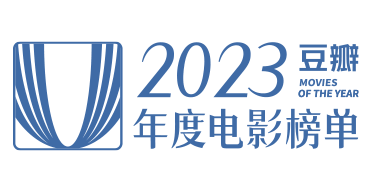
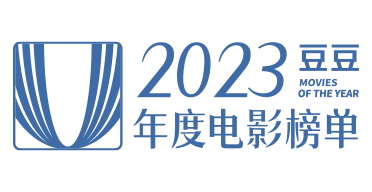
movie-web

Changed region(s): [[0.8871, 0.2188, 0.9758, 0.375]]

diff --git a/src/views/Home/IndexView.vue b/src/views/Home/IndexView.vue
@@ -16,7 +16,7 @@
             <el-row :gutter="10" >
              <el-col :span="6" v-for="item in p">
                <el-card align="center" style="padding:0;">
-                 <img :src="item.imgUrl" style="width: 130px;height: 180px">
+                 <img :src="item.imgUrl" style="height: 180px">
                  <p style="font-size:15px;margin: 3px auto;text-align: center;">{{item.title}}</p>
                  <p style="font-size:13px;margin: 3px auto;text-align: center;" :style="item.style">{{item.score}}</p>
                  <el-button type="primary" size="small"> 选座购票</el-button>
@@ -120,18 +120,51 @@
       <!--首页右侧部分-->
       <el-col :span="6">
         <el-menu>
-          <p>一周口碑榜</p>
-          <el-menu-item index="1">首尔之春</el-menu-item>
-          <el-menu-item index="2">机器人之梦</el-menu-item>
-          <el-menu-item index="3">梦之歌</el-menu-item>
-          <el-menu-item index="4">女气</el-menu-item>
-          <el-menu-item index="5">流行乐最传奇一夜</el-menu-item>
-          <el-menu-item index="6">农民</el-menu-item>
-          <el-menu-item index="7">如何拯救一名死去的朋友</el-menu-item>
-          <el-menu-item index="8">都是陌生人</el-menu-item>
-          <el-menu-item index="9">目中无人2</el-menu-item>
-          <el-menu-item index="10">动物王国</el-menu-item>
+          <p style="font-size: 20px; line-height: 50px;margin:0px;">一周口碑榜</p>
+          <el-menu-item index="1" style="height: 36px;">1.首尔之春</el-menu-item>
+          <el-menu-item index="2" style="height: 36px;">2.机器人之梦</el-menu-item>
+          <el-menu-item index="3" style="height: 36px;">3.梦之歌</el-menu-item>
+          <el-menu-item index="4" style="height: 36px;">4.女气</el-menu-item>
+          <el-menu-item index="5" style="height: 36px;">5.流行乐最传奇一夜</el-menu-item>
+          <el-menu-item index="6" style="height: 36px;">6.农民</el-menu-item>
+          <el-menu-item index="7" style="height: 36px;">7.如何拯救一名死去的朋友</el-menu-item>
+          <el-menu-item index="8" style="height: 36px;">8.都是陌生人</el-menu-item>
+          <el-menu-item index="9" style="height: 36px;">9.目中无人2</el-menu-item>
+          <el-menu-item index="10" style="height: 36px;">10.动物王国</el-menu-item>
         </el-menu>
+
+        <el-menu>
+          <p style="font-size: 20px; line-height: 50px;margin-top:60px;">热门片单</p>
+          <el-menu-item index="1" style="height: 50px;">现代战争篇</el-menu-item>
+          <el-menu-item index="2" style="height: 50px;">入选IMDB250和豆瓣电影250的电影</el-menu-item>
+        </el-menu>
+
+
+        <p style="font-size: 20px; line-height: 50px;margin-top:60px;">合作联系</p>
+        <hr>
+        <p>电影合作邮箱: movie@doudou.com</p>
+        <p>电视剧合作邮箱: tv@doudou.com</p>
+
+        <p style="font-size: 20px; line-height: 50px;margin-top:60px;">关于我们</p>
+        <hr>
+        <el-row :gutter="10">
+         <el-col :span="6" style="text-align: center">
+           <img src="/imgs/icon1.png" width="40px;">
+           <p style="margin-top: 5px;">微博</p>
+         </el-col>
+          <el-col :span="6">
+            <img src="/imgs/icon2.png" width="40px;">
+            <p style="margin-top: 5px;">微信</p>
+          </el-col>
+          <el-col :span="6">
+            <img src="/imgs/icon3.png" width="40px;">
+            <p style="margin-top: 5px;">瓣嘴</p>
+          </el-col>
+          <el-col :span="6">
+            <img src="/imgs/icon4.png" width="40px;">
+            <p style="margin-top: 5px;">光影club</p>
+          </el-col>
+        </el-row>
       </el-col>
     </el-row>
   </div>

diff --git a/src/views/HomeView.vue b/src/views/HomeView.vue
@@ -54,10 +54,11 @@
       <el-footer style="height: 28px; padding: 0;background-color:#fff;">
         <div class="header-div">
           <span style="margin:0 10px;text-decoration: none;color: #fff;line-height: 28px;font-weight: lighter;">
-            © 2000－2024 doudou.com, all rights reserved                           佛山祖庙中心 招泽标
+            © 2000－2024 doudou.com, all rights reserved 北京豆豆科技有限公司
           </span>
+          <span style="margin-left: 200px;color: #fff;line-height: 28px;font-weight: lighter;">2311 佛山祖庙中心 招泽标</span>
           <span style="position:absolute;right:0;">
-            <a href="/" class="header-div-a">关于豆瓣</a>|
+            <a href="/" class="header-div-a">关于豆豆</a>|
             <a href="/" class="header-div-a">在豆瓣工作</a>|
             <a href="/" class="header-div-a">联系我们</a>|
             <a href="/" class="header-div-a">法律声明</a>|
